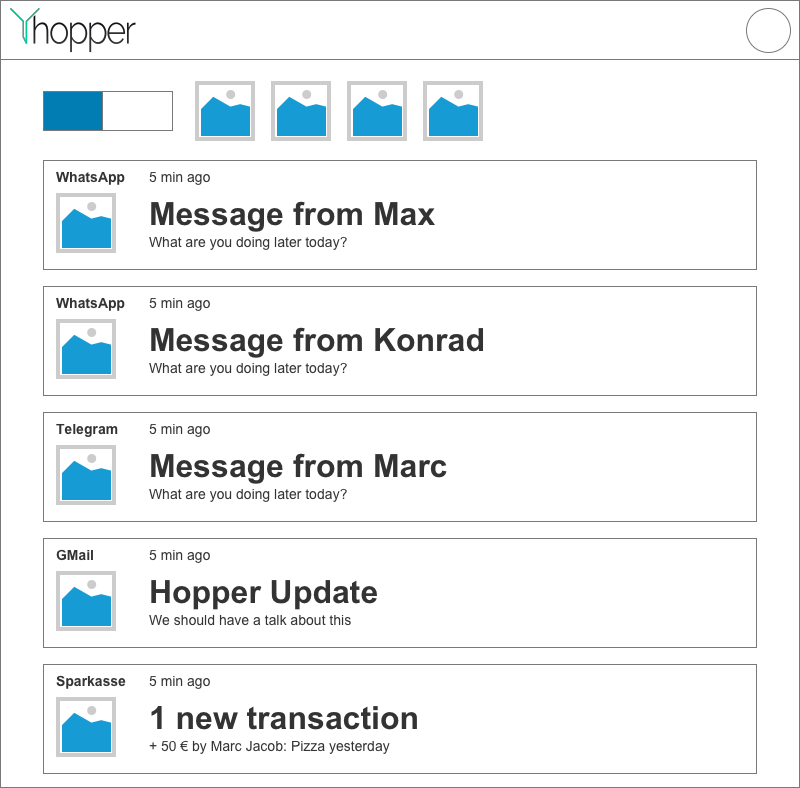
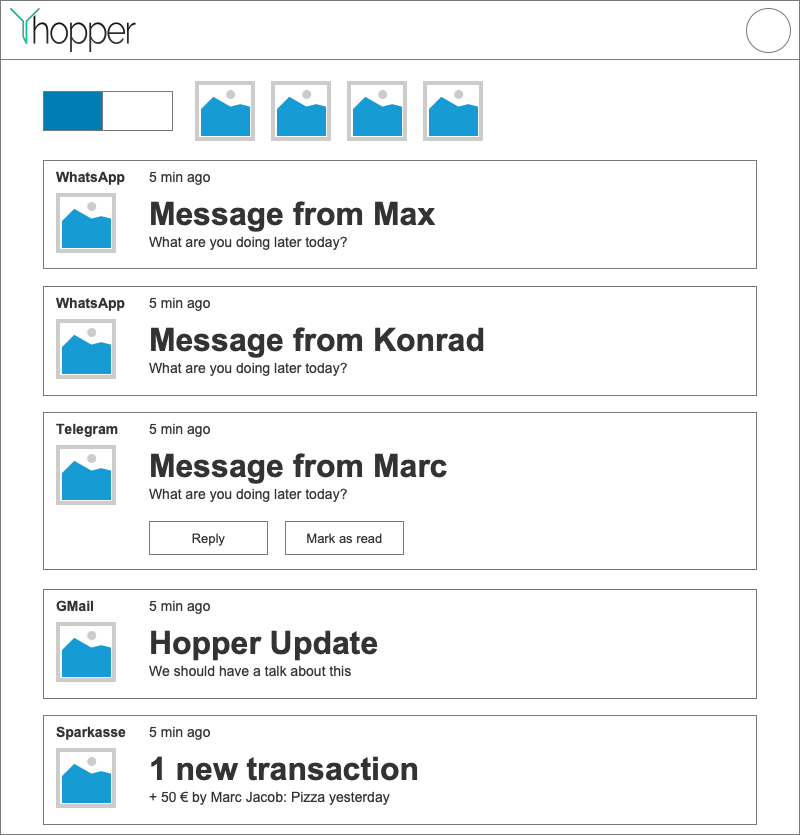
Update SRS, UCD, new use cases

Changed region(s): [[0.0, 0.0, 1.0, 0.6701], [0.0625, 0.6701, 0.9375, 1.0]]

diff --git a/srs.md b/srs.md
@@ -25,7 +25,6 @@
     + [3.1.10 Mark notification as done](#3110-mark-notification-as-done)
     + [3.1.11 Notify user](#3111-notify-user)
     + [3.1.12 Start action](#3112-start-action)
-    + [3.1.13 Delete user](#3113-delete-user)   
     + [3.1.14 Filter for App](#3114-filter-for-app)
   * [3.2 Usability](#32-usability)
     + [3.2.1 Usable in web browsers](#321-usable-in-web-browsers)
@@ -91,8 +90,7 @@ We are introducing a way to overcome this challenge – with hopper. Hopper is a
 The majority of information streams are based on notifications. You receive them, usually on your phone, and try to keep track of them all. Hopper is a central place for your notifications. It keeps track of them and lets you filter them, to only keep track of what is really important to you.
 
 ### 2.2 Use Case Diagram
-![use case diagram](img/ucd.svg "Use Case Diagram")  
-*The scope for the timespan until December, is to implement the hopper server (what you see above). In the next development cycle (from April to June) we will implement some default service providers and a provider store.*
+![use case diagram](img/ucd2.svg "Use Case Diagram")  
 
 ## 3. Specific Requirements  
 
@@ -129,6 +127,7 @@ The user can mark a notification it received as done, it will not show on the ov
 The user can be notified of an incoming notification
 #### 3.1.12 Start action
 The user can start actions provided with the notifications
+[Use Case Documentation](./uc-start-actoin.md)
 #### 3.1.13 Delete user
 All user data can be deleted
 #### 3.1.14 Filter for App

diff --git a/uc-start-action.md b/uc-start-action.md
@@ -1,0 +1,36 @@
+# 1 UC: Subscribe to app
+
+## 1.1 Brief Description
+When a user has a notification including actions, he can click on the actions to execute them
+
+# 2 Flow of Events
+## 2.1 Basic Flow
+- User clicks on a action on a notification
+- Action will be exectued
+- Optional: Notification will be executed
+
+### 2.1.1 Activity Diagram
+![Activity Diagram](./img/uc-start-action.svg)
+
+### 2.1.2 Mock-up
+![Mockup](./mockups/hopper_main.png)
+In this mockup, the notification from telegram contains actions that can be clicked.
+
+## 2.2 Alternative Flows
+(n/a)
+
+# 3 Special Requirements
+(n/a)
+
+# 4 Preconditions
+## 4.1 Logged in
+The user has to be logged in to the system.
+## 4.2 User has at least one notification containing at least one action
+The user has to have at least one notification with at least one action in order to be able to start this action
+
+# 5 Postconditions
+## 5.1 Action executed
+The action was send to the app. The exact handling depends on the app
+ 
+# 6 Extension Points
+(n/a)
